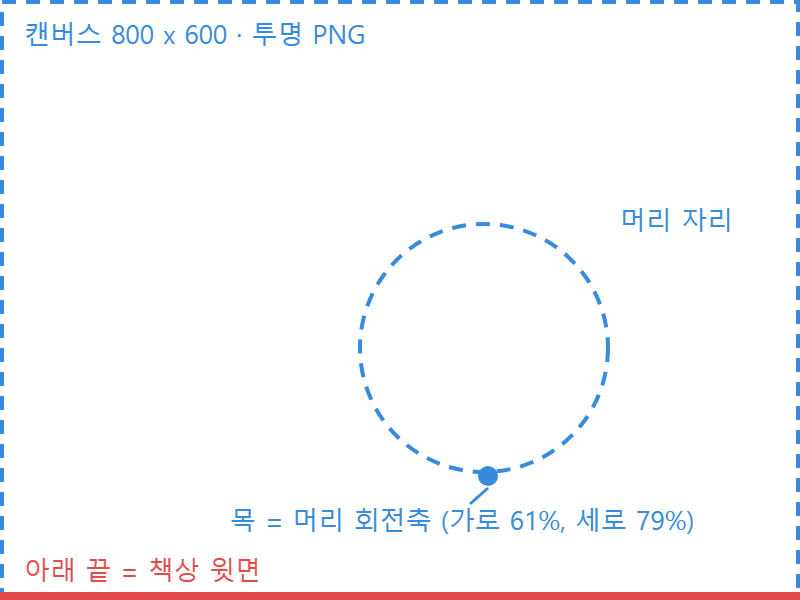
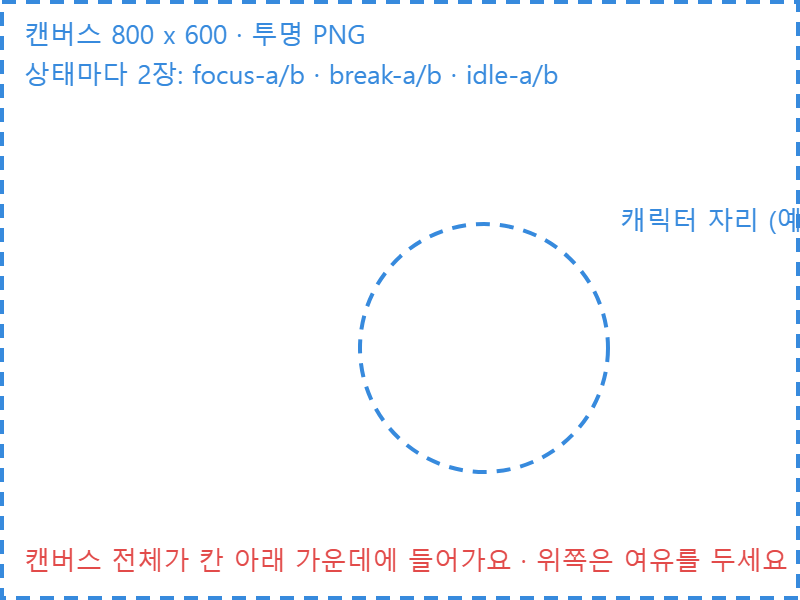
feat: 열람실 캐릭터를 상태별 그림 2장 교체 방식으로 바꾸고 배경 이미지 추가
- 캐릭터를 몸통·머리·팔손 레이어 대신 상태(집중·휴식·대기)마다 그림 2장을 번갈아 보여 주는 방식으로 변경
- 집중은 빠르게 바꾸고 사이사이 멈추며, 휴식은 느리게, 대기는 그 사이 빠르기로 바꿈
- 새 캐릭터 그림 6장을 넣고 책상선을 지움
- 캐릭터를 칸 크기에 맞춰 아래 가운데에 두어 머리가 잘리지 않게 함
- 칸 배경 이미지를 넣을 수 있게 하고 기본 배경 이미지 추가 (목록이 비면 기존 그린 방을 보여 줌)

diff --git a/frontend/src/styles.css b/frontend/src/styles.css
@@ -1283,73 +1283,74 @@ input[aria-invalid='true'] {
 .lamp-on {
   filter: drop-shadow(0 0 8px rgba(255, 216, 138, 0.8));
 }
-/* 캐릭터: 캔버스(4:3) 아래 끝을 책상 윗면에 맞춘다 */
+/* 배경 이미지: 칸을 꽉 채우고 가운데 기준으로 잘린다 */
+.scene-image {
+  position: absolute;
+  inset: 0;
+  width: 100%;
+  height: 100%;
+  object-fit: cover;
+  user-select: none;
+}
+
+/* 캐릭터: 캔버스(4:3)를 칸 높이의 86%로 줄여 아래 가운데에 둔다.
+   캔버스 아래쪽은 대부분 비어 있어 살짝 내려도(4%) 그림이 잘리지 않는다 */
 .seat {
   container-type: size;
 }
 .character-wrap {
   position: absolute;
-  left: 56%;
-  bottom: 22%;
-  width: min(84cqw, 118cqh);
-  transform: translateX(-50%);
-}
-.character-wrap.is-flipped {
-  left: 44%;
+  left: 50%;
+  bottom: 0;
+  width: min(100cqw, 86cqh * 4 / 3);
+  transform: translate(-50%, 4%);
 }
 .character {
   position: relative;
   aspect-ratio: 4 / 3;
 }
-.character-layers {
-  position: absolute;
-  inset: 0;
-}
-.character-flipped .character-layers {
+.character-flipped {
   transform: scaleX(-1);
 }
-.character .layer {
+/* 여섯 장을 겹쳐 두고 지금 상태의 A·B만 보인다. B가 보일 때는 A를 숨긴다 */
+.character .frame {
   position: absolute;
   inset: 0;
   width: 100%;
   height: 100%;
+  opacity: 0;
   user-select: none;
   pointer-events: none;
 }
-.layer-head {
-  transform-origin: var(--pivot);
-  transition: transform 0.6s ease;
+.character-focus .frame-focus.frame-a,
+.character-break .frame-break.frame-a,
+.character-idle .frame-idle.frame-a {
+  opacity: 1;
 }
-.character-focus .layer-head {
-  animation: head-sway 3.2s ease-in-out var(--phase) infinite;
+/* 집중: 빠르게 바꾸고 사이사이 잠깐 멈춘다 */
+.character-focus .frame-focus.frame-a {
+  animation: focus-a 2.4s step-end var(--phase) infinite;
 }
-.character-break .layer-head {
-  transform: rotate(-14deg) translate(-1%, 5%);
+.character-focus .frame-focus.frame-b {
+  animation: focus-b 2.4s step-end var(--phase) infinite;
 }
-@keyframes head-sway {
-  0%,
-  100% {
-    transform: rotate(-2.5deg);
-  }
-  50% {
-    transform: rotate(1.5deg) translateY(0.4%);
-  }
-}
-/* 손 A·B를 번갈아 보이고, 사이사이 잠깐 멈춘다 */
-.layer-hands-b {
-  opacity: 0;
-}
-.character-focus .layer-hands-a {
-  animation: hands-a 2.4s step-end var(--phase) infinite;
-}
-.character-focus .layer-hands-b {
-  animation: hands-b 2.4s step-end var(--phase) infinite;
-}
-.tempo-writing.character-focus .layer-hands-a,
-.tempo-writing.character-focus .layer-hands-b {
+.tempo-writing.character-focus .frame-focus {
   animation-duration: 4s;
 }
-@keyframes hands-b {
+/* 휴식: 숨 쉬듯 느리게, 대기: 그 사이 빠르기로 반씩 번갈아 */
+.character-break .frame-break.frame-a,
+.character-idle .frame-idle.frame-a {
+  animation: swap-a 3.2s step-end var(--phase) infinite;
+}
+.character-break .frame-break.frame-b,
+.character-idle .frame-idle.frame-b {
+  animation: swap-b 3.2s step-end var(--phase) infinite;
+}
+.character-idle .frame-idle.frame-a,
+.character-idle .frame-idle.frame-b {
+  animation-duration: 2.2s;
+}
+@keyframes focus-b {
   0%,
   16%,
   32%,
@@ -1365,7 +1366,7 @@ input[aria-invalid='true'] {
     opacity: 0;
   }
 }
-@keyframes hands-a {
+@keyframes focus-a {
   0%,
   16%,
   32%,
@@ -1381,29 +1382,20 @@ input[aria-invalid='true'] {
     opacity: 1;
   }
 }
-.zzz {
-  position: absolute;
-  left: 78%;
-  top: 6%;
-  color: rgba(255, 255, 255, 0.8);
-  font-weight: 700;
-  font-size: max(12px, 7cqw);
-  animation: drift 3s ease-in-out infinite;
+@keyframes swap-a {
+  0% {
+    opacity: 1;
+  }
+  50% {
+    opacity: 0;
+  }
 }
-.character-flipped .zzz {
-  left: 16%;
-}
-@keyframes drift {
+@keyframes swap-b {
   0% {
     opacity: 0;
-    transform: translateY(6px);
   }
   50% {
     opacity: 1;
-  }
-  100% {
-    opacity: 0;
-    transform: translateY(-8px);
   }
 }
 

diff --git a/frontend/src/character/characters.ts b/frontend/src/character/characters.ts
@@ -1,32 +1,34 @@
-import type { CharacterParts } from '../api/types'
+import type { CharacterParts, SeatState } from '../api/types'
 
 /**
- * 열람실 캐릭터 목록. 캐릭터 하나 = public/characters/<id>/ 아래 PNG 4장.
+ * 열람실 캐릭터 목록. 캐릭터 하나 = public/characters/<id>/ 아래 PNG 6장.
  *
- * - body.png              몸통. 움직이지 않는다. 책·노트북 같은 구조물도 여기에 그린다.
- * - head.png              머리. pivot을 축으로 살짝 기울어진다.
- * - hands-a.png, hands-b.png  팔·손. 집중하는 동안 번갈아 보인다.
+ * 상태마다 캐릭터 전체(몸, 머리, 손, 책상 위 물건)를 그린 그림 2장을 번갈아 보여 준다.
+ * - focus-a.png, focus-b.png  집중. 빠르게 바뀌고 사이사이 잠깐 멈춘다.
+ * - break-a.png, break-b.png  휴식. 숨 쉬듯 느리게 바뀐다.
+ * - idle-a.png,  idle-b.png   대기. 그 사이 빠르기로 바뀐다.
  *
- * 네 장 모두 800x600 투명 PNG이고 같은 위치 기준으로 그린다. 캔버스 아래 끝이 책상 윗면이다.
+ * 여섯 장 모두 800x600 투명 PNG이고 같은 위치 기준으로 그린다.
+ * 캔버스 전체가 칸 안에 들어가도록 줄여서 칸 아래 가운데에 놓인다. 칸 배경은 backgrounds.ts.
  * 가이드는 public/characters/template.png. 새 캐릭터는 폴더를 만들고 여기에 한 줄 추가하면 된다.
  */
 export interface CharacterSet {
   id: string
   name: string
-  /** 머리 회전축(목) 위치. 캔버스 기준 % */
-  pivot: { x: number; y: number }
-  /** 손을 바꾸는 빠르기 */
+  /** 집중할 때 그림을 바꾸는 빠르기. 타자는 빠르게, 필기는 조금 느리게 */
   tempo: 'typing' | 'writing'
 }
 
 export const CHARACTERS: CharacterSet[] = [
-  { id: 'laptop', name: '노트북', pivot: { x: 61, y: 79 }, tempo: 'typing' },
-  { id: 'notebook', name: '노트 필기', pivot: { x: 61, y: 79 }, tempo: 'writing' },
+  { id: 'laptop', name: '노트북', tempo: 'typing' },
 ]
 
-export type CharacterLayer = 'body' | 'head' | 'hands-a' | 'hands-b'
+export type Frame = 'a' | 'b'
 
-export const layerUrl = (set: CharacterSet, layer: CharacterLayer) => `/characters/${set.id}/${layer}.png`
+const STATE_FILE: Record<SeatState, string> = { FOCUS: 'focus', BREAK: 'break', IDLE: 'idle' }
+
+export const frameUrl = (set: CharacterSet, state: SeatState, frame: Frame) =>
+  `/characters/${set.id}/${STATE_FILE[state]}-${frame}.png`
 
 /** 서버가 준 파츠 번호로 캐릭터를 고른다. 같은 사람은 늘 같은 캐릭터가 된다. */
 export function pickCharacter(parts: CharacterParts): CharacterSet {

diff --git a/frontend/src/components/Character.tsx b/frontend/src/components/Character.tsx
@@ -1,6 +1,6 @@
 import type { CSSProperties } from 'react'
 import type { CharacterParts, SeatState } from '../api/types'
-import { layerUrl, phaseOf, pickCharacter } from '../character/characters'
+import { frameUrl, phaseOf, pickCharacter } from '../character/characters'
 
 interface Props {
   parts: CharacterParts
@@ -9,16 +9,15 @@ interface Props {
   flipped?: boolean
 }
 
+const STATES: SeatState[] = ['FOCUS', 'BREAK', 'IDLE']
+
 /**
- * 몸통·머리·팔손 PNG를 겹쳐 그린다. 실제 유저와 가상 메이트가 같은 규칙으로 그려진다.
- * 집중: 머리가 살짝 흔들리고 손 A·B가 번갈아 보인다. 휴식: 머리를 떨군다. 대기: 멈춰 있다.
+ * 상태별 그림 2장(A·B)을 번갈아 보여 준다. 실제 유저와 가상 메이트가 같은 규칙으로 그려진다.
+ * 상태가 바뀔 때 깜빡이지 않도록 여섯 장을 모두 그려 두고 지금 상태의 두 장만 보이게 한다.
  */
 export function Character({ parts, state, flipped = false }: Props) {
   const set = pickCharacter(parts)
-  const style = {
-    '--pivot': `${set.pivot.x}% ${set.pivot.y}%`,
-    '--phase': `-${phaseOf(parts).toFixed(2)}s`,
-  } as CSSProperties
+  const style = { '--phase': `-${phaseOf(parts).toFixed(2)}s` } as CSSProperties
 
   return (
     <div
@@ -26,13 +25,17 @@ export function Character({ parts, state, flipped = false }: Props) {
       style={style}
       aria-hidden="true"
     >
-      <div className="character-layers">
-        <img className="layer" src={layerUrl(set, 'body')} alt="" draggable={false} />
-        <img className="layer layer-head" src={layerUrl(set, 'head')} alt="" draggable={false} />
-        <img className="layer layer-hands-a" src={layerUrl(set, 'hands-a')} alt="" draggable={false} />
-        <img className="layer layer-hands-b" src={layerUrl(set, 'hands-b')} alt="" draggable={false} />
-      </div>
-      {state === 'BREAK' && <span className="zzz">z</span>}
+      {STATES.flatMap((s) =>
+        (['a', 'b'] as const).map((frame) => (
+          <img
+            key={`${s}-${frame}`}
+            className={`frame frame-${s.toLowerCase()} frame-${frame}`}
+            src={frameUrl(set, s, frame)}
+            alt=""
+            draggable={false}
+          />
+        )),
+      )}
     </div>
   )
 }

diff --git a/frontend/src/components/SeatTile.tsx b/frontend/src/components/SeatTile.tsx
@@ -1,5 +1,6 @@
 import { useEffect, useState } from 'react'
 import type { Occupant } from '../api/types'
+import { backgroundFor } from '../character/backgrounds'
 import { STATE_LABEL, elapsedSeconds, formatShort } from '../lib/time'
 import { Character } from './Character'
 
@@ -70,6 +71,7 @@ export function SeatTile({ seatNo, occupant, isMe, now, offsetMs, compact }: Pro
   const name = isMe ? `나 · ${occupant.nickname}` : occupant.nickname
   const tone = ROOM_TONES[(seatNo * 5) % ROOM_TONES.length]
   const flipped = FLIPPED_SEATS.has(seatNo)
+  const background = backgroundFor(seatNo)
 
   return (
     <div
@@ -77,18 +79,24 @@ export function SeatTile({ seatNo, occupant, isMe, now, offsetMs, compact }: Pro
       aria-label={`${name}, ${stateText}, 완료 ${occupant.completedCount}개, 남은 ${occupant.remainingCount}개`}
     >
       <div className="scene" aria-hidden="true">
-        <div className="window">
-          <span className="moon" />
-          <span className="star s1" />
-          <span className="star s2" />
-          <span className="star s3" />
-        </div>
-        {seatNo % 3 === 0 && <div className="shelf" />}
-        {seatNo % 3 === 1 && <div className="plant" />}
-        <div className="glow" />
-        <div className="desk" />
-        <Lamp on={state === 'FOCUS'} />
-        <div className={`character-wrap ${flipped ? 'is-flipped' : ''}`}>
+        {background ? (
+          <img className="scene-image" src={background} alt="" draggable={false} />
+        ) : (
+          <>
+            <div className="window">
+              <span className="moon" />
+              <span className="star s1" />
+              <span className="star s2" />
+              <span className="star s3" />
+            </div>
+            {seatNo % 3 === 0 && <div className="shelf" />}
+            {seatNo % 3 === 1 && <div className="plant" />}
+            <div className="glow" />
+            <div className="desk" />
+            <Lamp on={state === 'FOCUS'} />
+          </>
+        )}
+        <div className="character-wrap">
           <Character parts={occupant.character} state={state} flipped={flipped} />
         </div>
       </div>

diff --git a/frontend/src/character/backgrounds.ts b/frontend/src/character/backgrounds.ts
@@ -1,0 +1,15 @@
+/**
+ * 열람실 칸 배경 이미지 목록. 파일은 public/backgrounds/ 에 넣고 여기에 경로를 한 줄씩 추가한다.
+ *
+ * - 칸을 꽉 채우도록 잘려서 보인다(가운데 기준). 칸 비율은 화면에 따라 16:9 ~ 16:11 사이라
+ *   1280x800(16:10) 정도로 만들고, 중요한 부분은 가운데에 두면 안전하다.
+ * - 여러 장이면 자리 번호 순서대로 돌아가며 쓴다.
+ * - 목록이 비어 있으면 CSS로 그린 기본 방(벽·창문·스탠드·책상)을 보여 준다.
+ */
+export const SEAT_BACKGROUNDS: string[] = ['/backgrounds/default.webp']
+
+/** 자리 번호에 맞는 배경 이미지. 없으면 null */
+export function backgroundFor(seatNo: number): string | null {
+  if (SEAT_BACKGROUNDS.length === 0) return null
+  return SEAT_BACKGROUNDS[(seatNo - 1) % SEAT_BACKGROUNDS.length]
+}
